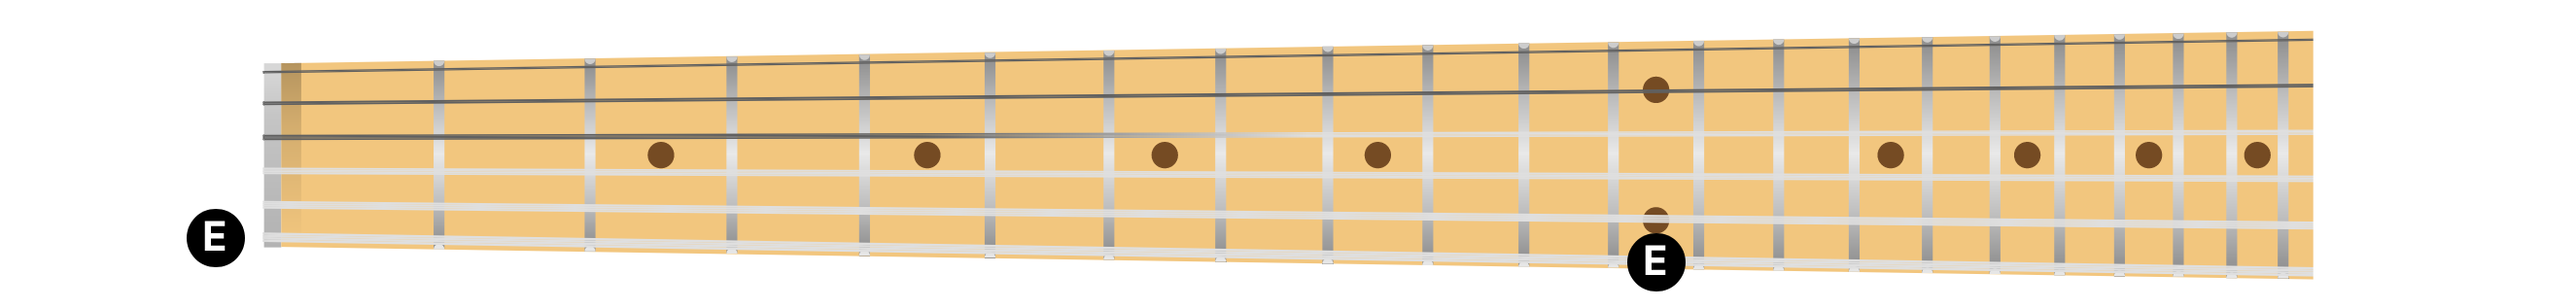
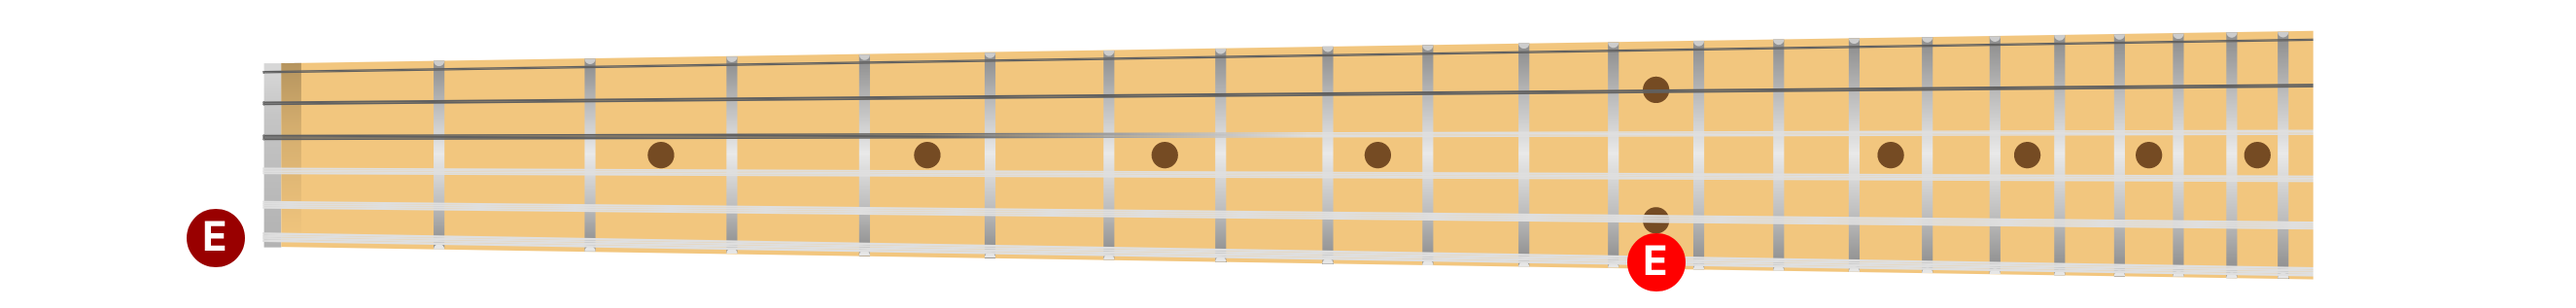
update

Changed region(s): [[0.6189, 0.7666, 0.6808, 0.9369], [0.0619, 0.6814, 0.0928, 0.8801]]

diff --git a/musictheory.md b/musictheory.md
@@ -41,9 +41,13 @@ Because of the phenomenon, consonance, there are only 12 note names. That means 
 
 Try this on the guitar. Play the low E string. Then play each fret until you get to the 12th fret. Can you guess what the 12th fret will sound like?
 
-![ ]({{ site.baseurl }}/images/e-to-e.png){: .mx-auto.d-block :}
+![ ]({{ site.baseurl }}/images/e-to-e.png?123abc){: .mx-auto.d-block :}
 
-The note at the 12th fret of the E string is also called "E" because it is in perfect consonance with the pitch at the open string—the low E.
+The note at the 12th fret should sound "like" the open string but just higher. The note at the 12th fret of the E string is also called "E" because it is in perfect consonance with the pitch at the open string—the low E.
+
+Try it with every other string too. The 12th fret of the A string is also an "A".
+
+![ ]({{ site.baseurl }}/images/eadgbe.png){: .mx-auto.d-block :}
 
 However, some of the colors in music can be called chords. Artists also mix paints to create new colors. Musicians can do the same thing by playing multiple notes at the same time. The general term for this is "harmony" (at least 2 notes played at the same time). Chords are the most common type of harmony. Generally chords are a minimum of 3 notes played at the same time.
 
